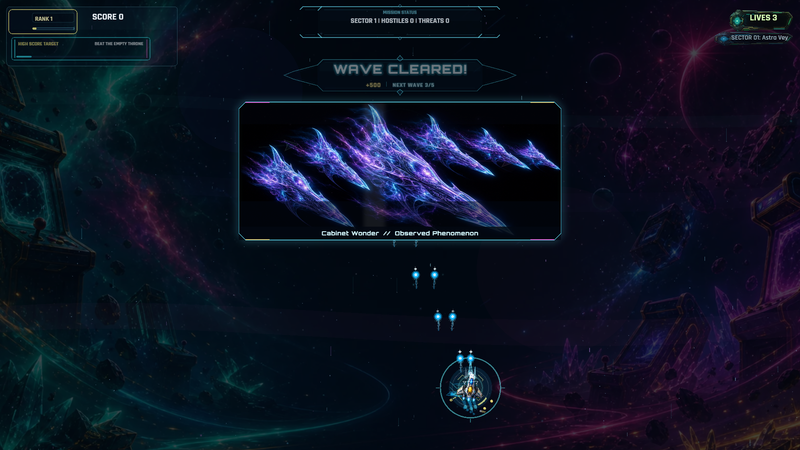
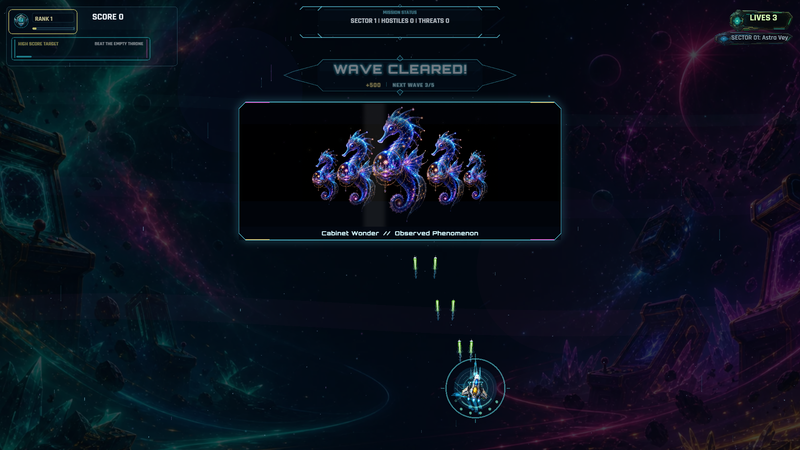
fix: contain tall Cabinet Wonder art

diff --git a/src/scenes/PlayScene.js b/src/scenes/PlayScene.js
@@ -229,6 +229,7 @@ const CABINET_WONDER_MAX_HEIGHT = 331;
 const CABINET_WONDER_CENTER_Y_RATIO = 0.3;
 const CABINET_WONDER_UI_GAP = 16;
 const CABINET_WONDER_PLAYER_LANE_TOP_RATIO = 0.65;
+const CABINET_WONDER_CAPTION_BAND_RATIO = 0.15;
 const GAME_OVER_DEATH_HOLD_MS = 620;
 const GAME_OVER_SKIP_DEBOUNCE_MS = 600;
 const BOSS_DEATH_VOICE_LOCK_MS = 9400;
@@ -3128,7 +3129,44 @@ export class PlayScene {
       const sourceHeight = Math.max(1, generatedTexture.height || 1);
       const targetWidth = width;
       const targetHeight = height;
-      const scale = Math.max(targetWidth / sourceWidth, targetHeight / sourceHeight);
+      const artFit = variant.artFit?.mode === 'subject_contain' ? variant.artFit : null;
+      let scale = Math.max(targetWidth / sourceWidth, targetHeight / sourceHeight);
+      let artSafeBounds = null;
+      let artRenderedBounds = null;
+      if (artFit) {
+        const captionBandHeight = Math.max(22, Math.min(32, height * CABINET_WONDER_CAPTION_BAND_RATIO));
+        const insetX = Math.max(12, Math.min(24, width * 0.025));
+        const insetTop = Math.max(8, Math.min(16, height * 0.03));
+        const insetBottom = Math.max(8, Math.min(12, height * 0.03));
+        artSafeBounds = {
+          x: insetX,
+          y: insetTop,
+          width: Math.max(1, width - insetX * 2),
+          height: Math.max(1, height - captionBandHeight - insetTop - insetBottom)
+        };
+        const subjectBounds = {
+          x: sourceWidth * artFit.x,
+          y: sourceHeight * artFit.y,
+          width: sourceWidth * artFit.width,
+          height: sourceHeight * artFit.height
+        };
+        scale = Math.min(
+          artSafeBounds.width / Math.max(1, subjectBounds.width),
+          artSafeBounds.height / Math.max(1, subjectBounds.height)
+        );
+        const safeCenterX = artSafeBounds.x + artSafeBounds.width * 0.5;
+        const safeCenterY = artSafeBounds.y + artSafeBounds.height * 0.5;
+        const subjectCenterX = subjectBounds.x + subjectBounds.width * 0.5;
+        const subjectCenterY = subjectBounds.y + subjectBounds.height * 0.5;
+        generatedArt.x = safeCenterX - (subjectCenterX - sourceWidth * 0.5) * scale;
+        generatedArt.y = safeCenterY - (subjectCenterY - sourceHeight * 0.5) * scale;
+        artRenderedBounds = {
+          x: generatedArt.x + (subjectBounds.x - sourceWidth * 0.5) * scale,
+          y: generatedArt.y + (subjectBounds.y - sourceHeight * 0.5) * scale,
+          width: subjectBounds.width * scale,
+          height: subjectBounds.height * scale
+        };
+      }
       generatedArt.scale.set(scale);
       generatedArt.alpha = 0.96;
       generatedArt.blendMode = 'normal';
@@ -3141,6 +3179,9 @@ export class PlayScene {
       root.addChild(generatedArtMask);
       generatedArt.mask = generatedArtMask;
       authoredBounds = { x: 0, y: 0, width: targetWidth, height: targetHeight };
+      generatedArt.__novaArtFitMode = artFit?.mode || 'cover';
+      generatedArt.__novaArtSafeBounds = artSafeBounds;
+      generatedArt.__novaArtRenderedBounds = artRenderedBounds;
       elementCount += 1;
     }
     const sparkField = new PIXI.Container();
@@ -3773,7 +3814,17 @@ export class PlayScene {
         height
       };
     }
-    return { root, elementCount, authoredBounds, animate, generatedArtReady: true, decorativeAccentAlpha };
+    return {
+      root,
+      elementCount,
+      authoredBounds,
+      animate,
+      generatedArtReady: true,
+      decorativeAccentAlpha,
+      artFitMode: generatedArt?.__novaArtFitMode || 'cover',
+      artSafeBounds: generatedArt?.__novaArtSafeBounds || null,
+      artRenderedBounds: generatedArt?.__novaArtRenderedBounds || null
+    };
   }
 
   getCabinetWonderReservedTransitionBounds(display, type) {
@@ -3903,8 +3954,12 @@ export class PlayScene {
     maskedContent.label = `cabinet_wonder_cameo_content_${variant.id}`;
     const visual = this.createCabinetWonderVisual(variant, frameWidth, frameHeight, reducedMotion);
     if (!visual) return null;
+    const artStage = new PIXI.Graphics();
+    artStage.label = `cabinet_wonder_art_stage_${variant.id}`;
+    artStage.rect(0, 0, frameWidth, frameHeight);
+    artStage.fill({ color: 0x000000, alpha: 0.96 });
     visual.root.zIndex = 0;
-    maskedContent.addChild(visual.root);
+    maskedContent.addChild(artStage, visual.root);
 
     const topVignette = new PIXI.Graphics();
     topVignette.rect(0, 0, frameWidth, frameHeight * 0.16);
@@ -3925,7 +3980,7 @@ export class PlayScene {
     maskedContent.addChild(scanSweep);
     maskedContent.mask = contentMask;
 
-    const captionBandHeight = Math.max(22, Math.min(32, frameHeight * 0.15));
+    const captionBandHeight = Math.max(22, Math.min(32, frameHeight * CABINET_WONDER_CAPTION_BAND_RATIO));
     const captionBand = new PIXI.Graphics();
     captionBand.rect(0, frameHeight - captionBandHeight, frameWidth, captionBandHeight);
     captionBand.fill({ color: 0x020711, alpha: 0.82 });
@@ -4049,6 +4104,19 @@ export class PlayScene {
       assetSource: 'authored_art',
       visualLanguage: 'cabinet_wonder_cosmic_cameo_authored_art',
       generatedArtReady: visual.generatedArtReady,
+      artFitMode: visual.artFitMode,
+      artSafeBounds: visual.artSafeBounds ? {
+        x: visual.frameBounds.x + visual.artSafeBounds.x,
+        y: visual.frameBounds.y + visual.artSafeBounds.y,
+        width: visual.artSafeBounds.width,
+        height: visual.artSafeBounds.height
+      } : null,
+      artRenderedBounds: visual.artRenderedBounds ? {
+        x: visual.frameBounds.x + visual.artRenderedBounds.x,
+        y: visual.frameBounds.y + visual.artRenderedBounds.y,
+        width: visual.artRenderedBounds.width,
+        height: visual.artRenderedBounds.height
+      } : null,
       decorativeAccentAlpha: visual.decorativeAccentAlpha,
       active: true,
       completed: false,
@@ -4185,6 +4253,9 @@ export class PlayScene {
         caption: active.historyEntry.caption,
         visualLanguage: active.historyEntry.visualLanguage,
         generatedArtReady: active.historyEntry.generatedArtReady,
+        artFitMode: active.historyEntry.artFitMode,
+        artSafeBounds: active.historyEntry.artSafeBounds ? { ...active.historyEntry.artSafeBounds } : null,
+        artRenderedBounds: active.historyEntry.artRenderedBounds ? { ...active.historyEntry.artRenderedBounds } : null,
         decorativeAccentAlpha: active.historyEntry.decorativeAccentAlpha,
         authoredBounds: { ...active.historyEntry.authoredBounds },
         reservedTransitionBounds: active.historyEntry.reservedTransitionBounds.map((bounds) => ({ ...bounds })),

diff --git a/src/config/CabinetWonderLore.js b/src/config/CabinetWonderLore.js
@@ -3,7 +3,8 @@ const NEW_ART_ROOT = '/art/generated/nova-swarm/vfx/cabinet-wonders';
 function wonder(id, title, signalClass, history, fieldNote, {
   palette = [0x7df9ff, 0xb6a1ff, 0xff70d7],
   pitchScale = 1,
-  art = `${NEW_ART_ROOT}/nova-wonder-${id.replaceAll('_', '-')}-20260725.png`
+  art = `${NEW_ART_ROOT}/nova-wonder-${id.replaceAll('_', '-')}-20260725.png`,
+  artFit = null
 } = {}) {
   return Object.freeze({
     id,
@@ -13,7 +14,8 @@ function wonder(id, title, signalClass, history, fieldNote, {
     fieldNote,
     palette: Object.freeze(palette),
     pitchScale,
-    art
+    art,
+    artFit: artFit ? Object.freeze({ ...artFit }) : null
   });
 }
 
@@ -566,7 +568,17 @@ The Swarm once cut a branch. Every inhabited world in the local cluster suffered
 
 When a Seahorse reaches a dead planet, the gardener wakes, opens the glass, and begins again. None has ever returned to the Caravan. The largest creature bears a garden whose sleeper is still awake. She has watched ten thousand companions depart and refuses her own world because it is not dead enough to need her. Her transmissions are lullabies naming every restored planet. The newest verse names Earth, then corrects itself: NOT YET. NOT YET. NOT YET.`,
     'Garden globes are fragile. Keep combat below the Caravan.',
-    { palette: [0x65e8ff, 0xa175ff, 0xffce6a], pitchScale: 0.99 }
+    {
+      palette: [0x65e8ff, 0xa175ff, 0xffce6a],
+      pitchScale: 0.99,
+      artFit: {
+        mode: 'subject_contain',
+        x: 75 / 1536,
+        y: 43 / 1024,
+        width: 1382 / 1536,
+        height: 912 / 1024
+      }
+    }
   ),
   wonder(
     'prism_eclipse_mandala',

diff --git a/progress.md b/progress.md
@@ -15,6 +15,8 @@ Original prompt: identify some low hanging fruits to make the game more fun, the
 - Owner footage follow-up (`Desktop 2026.08.20 - 19.52.29.02.mp4`) showed only about 650 ms at full opacity. The next iteration uses the midpoint of the requested 10-20% range: an additional 15% enlargement (`44.16% x 33.12%`, capped at `773 x 331`) and a 1,500 ms full hold (`2,140 ms` total normal / `1,800 ms` Reduced Motion). Existing collision-free lane placement, authored-art-only skip, synchronous combat dismissal, and non-blocking gameplay contract remain unchanged.
 - Final no-overlap revision protects the lower 35% player lane and renders the cameo above continuing gameplay sprites but below the HUD/transition UI, so shots keep simulating without crossing the art or caption. All-locale runtime/fixed-delta evidence passes at `test-results/cabinet-wonders-2026-08-20T18-23-41-197Z`; the owner-requested Steam draft image is the self-captured English frame at `release/steamworks/artwork/cabinet-wonder-cosmic-cameo-20260820-800x450.png`.
 - Follow-up validation passes: `check:cabinet-wonders`, `check:cabinet-wonders-runtime`, `check:notification-orchestration`, `check:i18n`, `build:current`, `check:i18n-ui`, browser `smoke`, `check:controller-flow`, `desktop:smoke:current`, and `check:steam-electron-bridge`. The fixed-delta fixture now cancels its real boot-time pending enemy-start timeout before the artwork-loading comparison instead of nulling and orphaning the handle.
+- Owner screenshot follow-up identified vertical cropping on the tall `nebula_seahorse_caravan` art. The generic cover fit remains for broad Wonders, while this authored composition now uses measured normalized subject bounds and a caption-safe contain fit inside the unchanged large frame. A continuous black inner stage removes visible source-image edges. Runtime geometry and visual QA pass at `test-results/cabinet-wonders-2026-08-20T19-24-03-691Z`; the refreshed Steam image is `release/steamworks/artwork/cabinet-wonder-cosmic-cameo-20260820-800x450.png`.
+- The repository-native Chrome runtime suite remains authoritative. The skill-generic web-game client was attempted again after the meaningful change, but its separate cache still lacks `chromium_headless_shell-1208`; no shared browser install was performed.
 
 ## 2026-08-16 First-run HUD progressive-disclosure review
 
